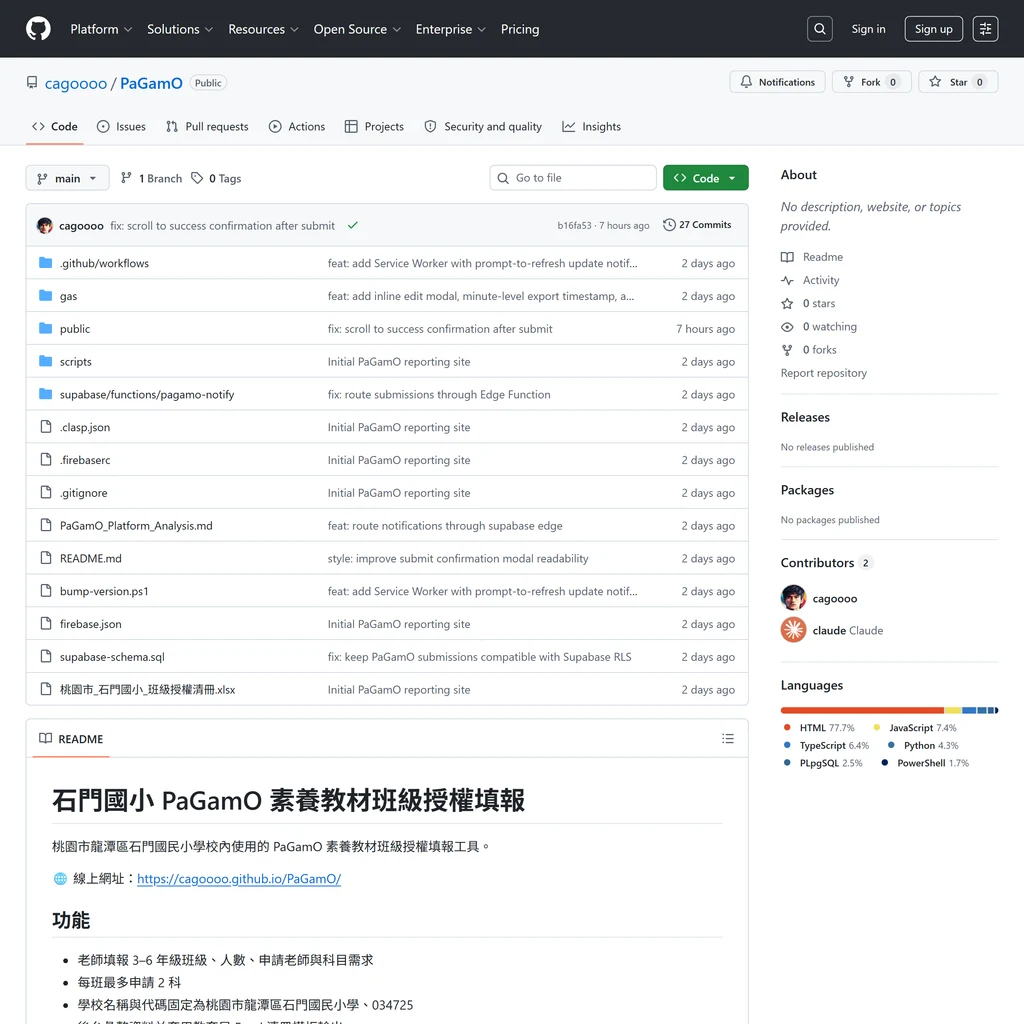
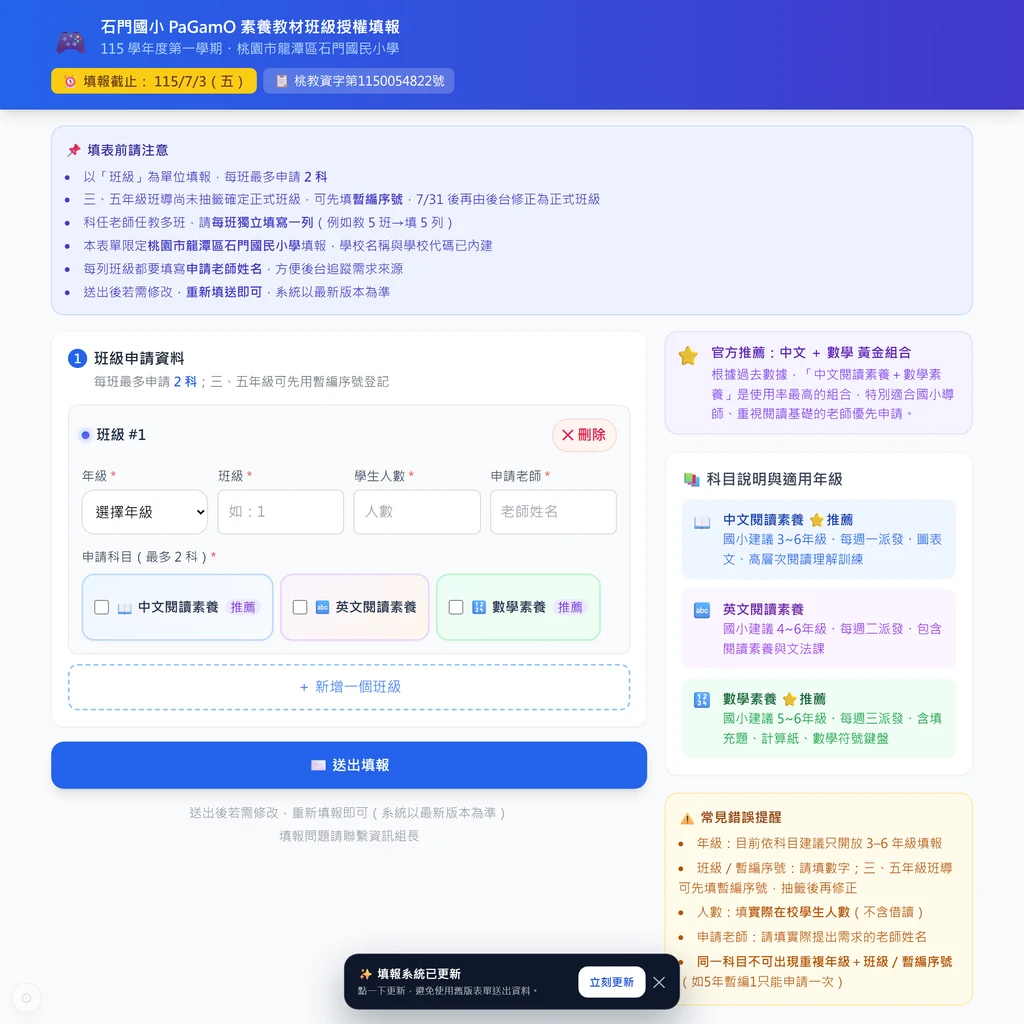
🐛 修正工具 #113 連結錯誤與更新 Live 預覽圖（v3.6.86）
- 將 PaGamO 授權填報工具連結由 GitHub Repo 修正為可直接使用的 GitHub Pages 部署網址（https://cagoooo.github.io/PaGamO/）
- 重新擷圖真正 live app 的畫面預覽
- 重新生成 OG 分享圖與手寫長文內對外連結（對齊 SSOT 改寫機制）
- 升級 package.json 版本至 v3.6.86 避免 PWA 快取

🤖 Generated with Antigravity

diff --git a/client/src/blog/posts.ts b/client/src/blog/posts.ts
@@ -13987,7 +13987,7 @@ const POST_113: BlogPost = {
 
 ## #113 怎麼解？一鍵填報與智慧格式驗證
 
-為了徹底解決這個行政痛點，[PaGamO 素養教材班級授權填報](https://github.com/cagoooo/PaGamO) 應運而生。它將繁瑣的紙本與 Excel 填報，轉化為直覺的網頁一站式表單：
+為了徹底解決這個行政痛點，[PaGamO 素養教材班級授權填報](https://cagoooo.github.io/PaGamO/) 應運而生。它將繁瑣的紙本與 Excel 填報，轉化為直覺的網頁一站式表單：
 
 **格式即時驗證** — 導師在填寫學生姓名與學號時，系統會立即進行長度與字元檢查，例如自動去除空白、限制學號長度，確保輸入源頭「零錯誤」。
 
@@ -14015,7 +14015,7 @@ const POST_113: BlogPost = {
 
 ## 想試試？
 
-→ [前往 #113 PaGamO 素養教材班級授權填報](https://github.com/cagoooo/PaGamO)
+→ [前往 #113 PaGamO 素養教材班級授權填報](https://cagoooo.github.io/PaGamO/)
 
 拒絕重複貼上，用科技把時間還給教學。讓我們用這套精準的填報系統，告別每學期初的 Excel 惡夢！
 `,

diff --git a/client/src/components/bulletin/BulletinDeploymentEcosystem.tsx b/client/src/components/bulletin/BulletinDeploymentEcosystem.tsx
@@ -28,7 +28,7 @@ const PLATFORMS: Platform[] = [
   {
     emoji: '🐙',
     name: 'GitHub Pages',
-    count: 72,
+    count: 73,
     desc: '主力作品集，cagoooo/* 80+ repo',
     color: tokens.note.blue,
     pinColor: '#3b82f6',
@@ -68,7 +68,7 @@ const PLATFORMS: Platform[] = [
   {
     emoji: '🧩',
     name: '第三方平台',
-    count: 7,
+    count: 6,
     desc: 'Replit + LINE Bot + Claude Artifacts + Padlet',
     color: tokens.note.pink,
     pinColor: '#db2777',

diff --git a/client/public/sw.js b/client/public/sw.js
@@ -7,7 +7,7 @@
  * - Stale While Revalidate: 圖片
  */
 
-const CACHE_VERSION = 'v3.6.85-8829f5c-202606282121';
+const CACHE_VERSION = 'v3.6.86-58adec5-202606282130';
 const STATIC_CACHE = `static-${CACHE_VERSION}`;
 const DYNAMIC_CACHE = `dynamic-${CACHE_VERSION}`;
 const ASSETS_ARCHIVE = 'assets-archive-v1';

diff --git a/client/src/data/featuredTools.ts b/client/src/data/featuredTools.ts
@@ -28,4 +28,4 @@ export const FEATURED_TOOL_IDS: number[] = [
   108, // [fallback] 資安特攻隊：釣魚郵件偵蒐
 ];
 
-/** 自動產生：2026-06-28T13:21:26.120Z */
+/** 自動產生：2026-06-28T13:30:56.434Z */

diff --git a/client/src/data/popularQueries.ts b/client/src/data/popularQueries.ts
@@ -20,4 +20,4 @@ export const POPULAR_QUERIES: string[] = [
   '注音練習', // [熱門]
 ];
 
-/** 自動產生：2026-06-28T13:21:28.588Z */
+/** 自動產生：2026-06-28T13:30:57.512Z */

diff --git a/client/src/lib/toolUrlMap.ts b/client/src/lib/toolUrlMap.ts
@@ -111,5 +111,5 @@ export const TOOL_URL_MAP: Record<string, number> = {
   "https://cagoooo.github.io/PhotoLibrary/": 110,
   "https://cagoooo.github.io/smes-werewolf-rules/": 111,
   "https://cagoooo.github.io/pikachu-flappy-bird/": 112,
-  "https://github.com/cagoooo/PaGamO": 113
+  "https://cagoooo.github.io/PaGamO/": 113
 };